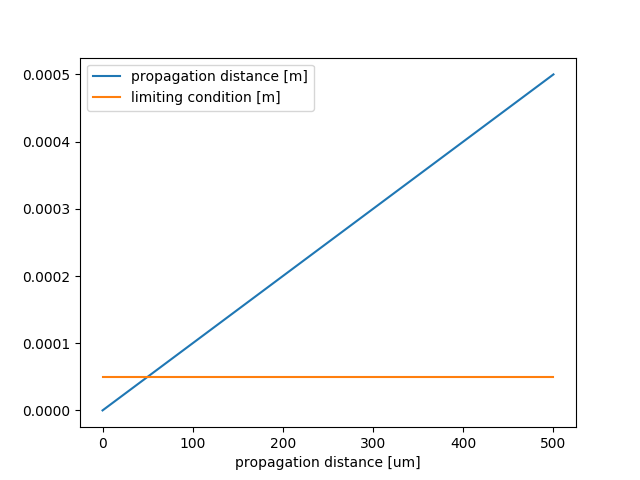
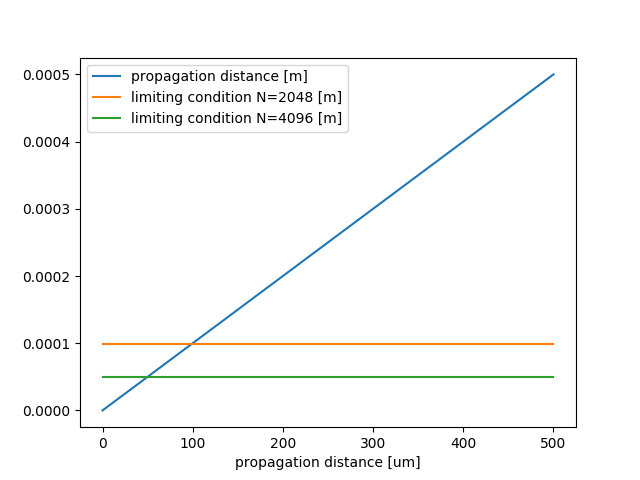
before weekend!

Changed region(s): [[0.125, 0.1875, 0.5312, 0.2812], [0.1562, 0.7812, 0.8438, 0.8125], [0.1562, 0.6875, 0.8438, 0.7188]]

diff --git a/template.tex b/template.tex
@@ -445,9 +445,9 @@ The system simulated in Fig.~\ref{fig: aperture_1D} refers to  the Fresnel diffr
 
 If we consider a wavefront sampled in $N \times N$ pixels (being $N > 10^3$), when calculating the 2D integrals to propagate the wavefront to another plane with the same resolution, we need approximately $N^2\cdot N^2 \approx 10^{12}$ operations. This implicate the necessity of a great amount of storage and calculations not feasible for normal computers. When performing the same calculations taking advantage of the theory of Fourier optics, one $FFT$ requires $\approx N^2 \log_2 N \approx 10^7$ operations \cite{Marshall:1992:CVM:129191}. This is the reason why we seek for a form that let us exploit such powerful tool. 
 
-The expression of the Fresnel propagator in Eq.~\ref{eq: Fresnel propagation in convolution form} is suitable to be calculated numerically with the use of Fast Fourier Transform algorithm ($FFT$) simply swapping the Fourier transform operator $\mathcal{F}\big\{\big\}$ with the discrete Fourier transform one $FFT$, taking into account the sampling conditions that are discussed later. That is, one arrives at
-\begin{equation}\label{eq: numerical convolution form of angular spectrum}
-U(x, y, \Delta z)= \frac{e^{ik\Delta z}}{2\pi} FFT^{-1}\Big\{ FTT\big\{U(x, y, 0)\big\} \times e^{\frac{-i \Delta z (k_x^2 + k_y^2) }{2k}} \Big\} 
+The expression of the Fresnel propagator in Eq.~\ref{eq: Fresnel propagation in convolution form} is suitable to be calculated numerically with the use of Fast Fourier Transform algorithm ($FFT$) simply swapping the Fourier transform operator $\mathcal{F}\big\{\big\}$ with the discrete Fourier transform one $FFT$, taking into account the sampling conditions that are discussed later. That is, one arrives at \todo{explain the kernel is changed to account for different definition of the fourier transform}
+\begin{equation}\label{eq: standard propagator}
+U(x, y, \Delta z)= \frac{e^{ik\Delta z}}{2\pi} FFT^{-1}\Big\{ FTT\big\{U(x, y, 0)\big\} \times e^{-i \pi \lambda \Delta z (f_x^2 + f_y^2) \Big\}
 \end{equation} 
 This is the standard implementation of the Fresnel propagator using two FFT implemented in most computer codes for synchrotron radiation. The use of FFT is not restricted to this propagator. Indeed, Eq.~\ref{eq: before fraunhoffer} represents the Fresnel propagator as Fourier transform of the distrurbance $U$ multiplied by a quadratic term. This allows to compute the Fresnel propagator using a single FFT \todo{explain why this is not so popular and is not used in synchrotron radiation (as far as I know...)}. The in the Fraunhofer regime, this quadratic phase is approximated by one so the propagated disturbance is just the Fourier transform of the unpropagated one, a phenomenon that is very well known in many fields of Physics. 
 
@@ -550,13 +550,22 @@ P = e^{i \frac{k}{2 \Delta z} [(1-m_x)x_1^2 + (1-m_y)y_1^2]} \\
 K = e^{-i \pi \lambda \Delta z (\frac{f_x^2}{m_x} +\frac{f_y^2}{m_y})}
 \end{equation}
 
-Note that setting one magnification $m_x=m_y=1$ one obtains the standatd Fresnel propagator (Eq.~\ref{eq: numerical convolution form of angular spectrum}), with  $P=1$, \inred{$P^G=\exp(i k \Delta z)$ where is the $(2 \pi)$??} and $K= e^{-i \pi \lambda \Delta z (f_x^2 +f_y^2)}$.
+Note that setting one magnification $m_x=m_y=1$ one obtains the standatd Fresnel propagator (Eq.~\ref{eq: numerical convolution form of angular spectrum}), with  $P=1$, $P^G=\exp(i k \Delta z)$  and $K= e^{-i \pi \lambda \Delta z (f_x^2 +f_y^2)}$.
 
 
-\subsection{Example propagate to the focal position of a highly converging wavefront}
+\subsection{Example: propagate a collapsing spherical wavefront to its focal plane}
 \label{subch: aperture converging}
 
-\todo{EXAMPLE: Plane wave clipped by a slit, focused by an ideal lens. and propagate to close to the focal position. Like in Fig.~\ref{fig: slit 2D converging}. Discuss the wavefront evolution. FIND AND COMPARE WITH THE ANALYTICAL SOLUTION WITH SPHERICAL WAVE? May be discuss the Gouy phase?}
+We study here the focal pattern produced by a highly converging wavefront clipped by a rectangular aperture. For that, a spherical wave of radius $R=-10$ cm of wave field $U(x,y,0) = \exp(i k (x^2 + y^2) / (2 R)$ clipped by a square slit, thus  zero outside a domain $-D/2\le x\le D/2$, domain $-D/2\le x\le D/2$. The photon energy is $E=10$ keV and $D=100 \mu$m. 
+This field is propagated to the focal position, thus $\Delta z$=10 cm.This situation may represent an over-simplification of the last step of a real nonofocusing beamline \cite{ID16A}, where a highly coherent beam represented by a plane wave enters in a  Kirkpatrick-Baez system that i) clips the wavefront because of its limited numerical aperture, and ii) converts the plane wave into an approximately spherical wave converging to the focal position.
+
+The case of diffraction of a collapsing spherical wave clipped a square slit can be calculated analitically useng the Fresnel propagator thus assuming paraxial approximation. As shown in Appendix~\ref{appendix_collapsing}, the diffracted intensity distribition at the focal plane is
+\begin{equation}
+    |U(x,y,z=\Delta z)|^2 = \left( \frac{2 k D^2}{\pi \Delta z}\right)^2 sinc^2\frac{k x D}{2 \Delta z} sinc^2\frac{k y D}{2 \Delta z}
+\end{equation}
+with $sinx(x)=\sin(x}/x$. Note that this pattern is the same (except for the scaling factor) as the pattern produced by a plane wave at $\Dz=\infty$ (in the far field using the Fraunhofer approximation). Fig.~\ref{fig: slit 2D converging} shows the results of some numerical calculations using WOFRY(zoom), SRW(quadratic), \inred{add more...} compared with the analytical result. The agreement is very good in general, thus the data are presented in log scale to better appreciate small differences.  
+
+\todo{Discuss the phase. May be illustrate the Gouy phase?}
 
 \begin{figure}
 \label{fig: slit 2D converging}
@@ -577,9 +586,9 @@ In this section we formalize the conditions for good sampling of the phase in th
 Let us consider a quadratic phase term $\exp(i A x^2)$. The condition for ``good sampling'' is:
 
 \begin{equation}
-\frac{1}{2 \pi} \frac{\partial}{\partial x}(A x^2) = \frac{1}{2 \delta_x}
+\frac{1}{2 \pi} \frac{\partial}{\partial x}(A x^2) = \frac{1}{2 \delta_x},
 \end{equation}
-expressing the spatial coordinate $x_j=X_J \delta_x$ with $X_j = [-N/2,-N/2 -1, ..., 0,..., N/2[$:
+expressing the spatial coordinate $x_j=X_J \delta_x$ with $X_j = [-N/2,-N/2 -1, ..., N/2[$ (N even) or $X_j = [-(N-1)/2,...(N-1)/2[$ (N odd)
 \begin{equation}
 \frac{1}{2 \pi} \frac{1}{\delta_x} \frac{\partial}{\partial X}(A (X \delta_x)^2) = \frac{1}{2 \delta_x}
 \end{equation}
@@ -597,33 +606,55 @@ b)
 \includegraphics[width=0.45\textwidth]{sample_quadratic_phase_A30.png}
 \end{figure}
 
-\todo{discuss the case of a wavefront curved with a radius, like $A=B/R$ }
+The condition in Eq.~\ref{eq: good sampling condition} should be applied to all quadratic exponential phases in all propagators. Before applying it to the different propagators, we can conside the case when the incident wavefront has a strong curvature. Let us think in a 1D
+field that can be factorised into some remaining field multiplied by a phase $\exp(i k x^2 /  (2 R_x))$. Applying the validity condition in Eq.~\ref{eq: good sampling condition}, one obtains the minimum affordable radius for correct sampling as a function of the wavelength and sampling conditions parameters $\delta_x$ and $N_x$
+\begin{equation}
+    R_x > \frac{N_x \delta_x^2}{\lambda}
+\end{equation}
 
-The condition in Eq.~\ref{eq: good sampling condition} should be applied to all quadratic exponential phases in all propagators. 
+\todo{This condition is not satisfied by Fig.~\ref{fig: slit 2D converging}, It would need 4 times more pixels in H and also in V (16x) what is difficult...}
+
+\subsection{The standard propagator}
+The standard propagator is implemented using Eq.~\ref{eq: standard propagator}. The kernel has a form $\exp(A x^2)$ where (using $f_{x,j}=X_j \delta_f$, $\delta_f = 1/(N_x \delta_x)$)
+\begin{equation}
+    -\pi \lambda \Delta z f_x^2 = 
+    -\pi \lambda \Delta z \left(\frac{x}{N_X \delta_x} \right)^2 = A x^2 
+\end{equation}
+therefore the validity condition gives
+\begin{equation}
+    \Delta z < \frac{N_x \delta_x^2}{\lambda}  = \frac{W^2}{N_x \lambda}
+\end{equation}
+being $W$ the window size ($W=N_x \delta_$). Note that an increase of the number of points for a constant window will \inblue{reduce} the maximum allowed propagation distance. For incrementing $\Delta z$ one has to increase the window. 
+
+For example, under the conditions of Fig.~\ref{fig: SRW aperture} ($N$=2048) and Fig.~\ref{fig: SRW aperture comparison} ($N$=4096) the condition \ref{eq: good sampling fresnel} is represented in Fig.~\ref{fig: fresnel propagator validity}. Note also the maximum allowed propagation distance is in general very small, therefore this standard propagator is valid only in the near-field region. 
+
+
+\begin{figure}
+\label{fig: fresnel propagator validity}
+\caption{Validity plot for the propagation distance applied to the cases of Fig.~\ref{fig: SRW aperture} ($N$=2048) and Fig.~\ref{fig: SRW aperture comparison} ($N$=4096).
+}
+\includegraphics[width=0.95\textwidth]{fresnel_propagator_validity.png}
+\end{figure}
+
+
+\subsection{The zoom propagator}
 
 For the zoom propagator, these conditions can be expressed as a function of the propagation distance $\Delta z$ \inred{Reference pyNX documentation}:
 \begin{equation}\label{eq: good sampling zoom pynx}
 max\left\{ \frac{|m-1| N \delta_x^2}{\lambda}; \left| \frac{m-1}{m} \right|\frac{N \delta_x^2}{\lambda} \right\} < \Delta z < \frac{m N \delta_x^2}{\lambda}
 \end{equation}
-For the Fresnel propagators we can use these expressions and set $m=1$ so they reduce to the unique condition
-\begin{equation}\label{eq: good sampling fresnel}
-\Delta z < \frac{N \delta_x^2}{\lambda}
-\end{equation}
-\todo{For example, under the conditions of Fig.~\ref{fig: aperture_1D} the condition in Eq.~\ref{eq: good sampling fresnel} is represented in Fig.~\ref{}.}
-\begin{figure}
-\label{fig: fresnel propagator validity}
-\caption{xxx
-}
-\includegraphics[width=0.95\textwidth]{fresnel_propagator_validity.png}
-\end{figure}
 
+\todo{add on top of Fig.~\ref{fig: fresnel propagator validity} some bands corresponding to the zones accessible for the zoom propagator with different $M$. Show that this propagator gives a high flexibility in accessing new regions.} 
 
 The condition in Eq.~\ref{eq: good sampling condition} can also be expressed for the zoom propagator as a function of the source pixel size $\delta_x$ and the image pixel size $\delta_{x'}=m \delta_x$ which gives the following conditions (see Ref.~\cite{pirro}):
 \begin{equation}\label{eq: good sampling pirro condition one}
 \delta_{x'} > \frac{\lambda \Delta z}{N \delta_x}
 \end{equation}
 \begin{equation}\label{eq: good sampling pirro condition two}
-\left(1+\frac{\Delta z}{R}\right) \delta_x - \left( 1 + \frac{\Delta z}{R}\right) \delta_x + \frac{\lambda \Delta z}{\delta_x N}
+\left(1+\frac{\Delta z}{R}\right) \delta_x -
+\frac{\lambda \Delta z}{\delta_x N}
+< \delta_{x'} < 
+\left( 1 + \frac{\Delta z}{R}\right) \delta_x + \frac{\lambda \Delta z}{\delta_x N}
 \end{equation}
 where $R$ is the dominant curvature of the source wavefront (positive for a divergent beam). To illustrate this condition we have explored the parameter space, in this case ($\delta_x,\delta_{x'}$ and simulate the propagation of a divergent beam. \todo{comment results}
 
@@ -639,6 +670,8 @@ Parameters map comparing the theoretical condition of propagation (lines) that d
 \includegraphics[width=0.45\textwidth]{npixel2048-prop_dist23-R28-Finf.png}
 \end{figure}
 
+\subsection{The zoom propagator}
+\todo{RAFAEL, please...}
 
 \section{Discussion and examples}
 
@@ -701,6 +734,12 @@ Note that different references use slightly different definitions of the Fourier
 \begin{equation}
 \mathcal{F}\left\{ e^{A x^2} \right\} = \sqrt{\frac{\pi}{-A}} e^{\frac{\pi^2}{A} f_x^2}
 \end{equation}
+and also
+\begin{equation}
+\mathcal{F}^{-1}\left\{ e^{A f_x^2} \right\} = \sqrt{\frac{\pi}{-A}} e^{\frac{\pi^2}{A} x^2}
+\end{equation}
+
+\todo{One can discuss also here the particular case of FR with kernel $\exp(ik_x x)$ as used in the Section~\ref{ch: theory} because in this case the FT of a Gaussian has different coefficients as happens in Eq.~\ref{eq: Fresnel approx of angular spectrum} ??}
 
 \section{The Fresnel Scaling Theorem}
 \label{appendix_scaling}
@@ -914,7 +953,7 @@ Equation \ref{eq: final form of Fresnel zoom in convolution form} represent the 
 
 
 
-\section{Fresnel propagation of a plane wave trough an aperture}
+\section{Fresnel propagation of a plane wave through an aperture}
 \todo{this can be removed as it is just a copy of \cite{goodmanfourier}, but results have been used for some figures}
 The propagated field given by the Fresnel diffraction equation \ref{eq: Fresnel approx of angular spectrum} can be solved analytically only in some particular cases. We summarize here following \cite{goodmanfourier} the results of diffraction of a plane wave by a 2D slit (square and circular), as they are used in the following sections. 
 
@@ -938,7 +977,8 @@ R(z'; \Delta z) = \int_0^{N_F} \eta e^{i \pi \eta^2} J_0(2 \pi \eta r') d\eta
 \end{equation}
 where $r'$ is a normalized radial coordinate $r' = \sqrt{(x^2 + y^2)/(\lambda \Delta z)}$, and $J_0$ the first-kind Bessel function of zeroth order. This integral has no analytical form but can be easily integrated numerically. 
 
-
+\section{Fresnel propagation of a spherical collapsing wave to its focal plane}
+\todo{add noted given by David}
 
 
      %-------------------------------------------------------------------------
